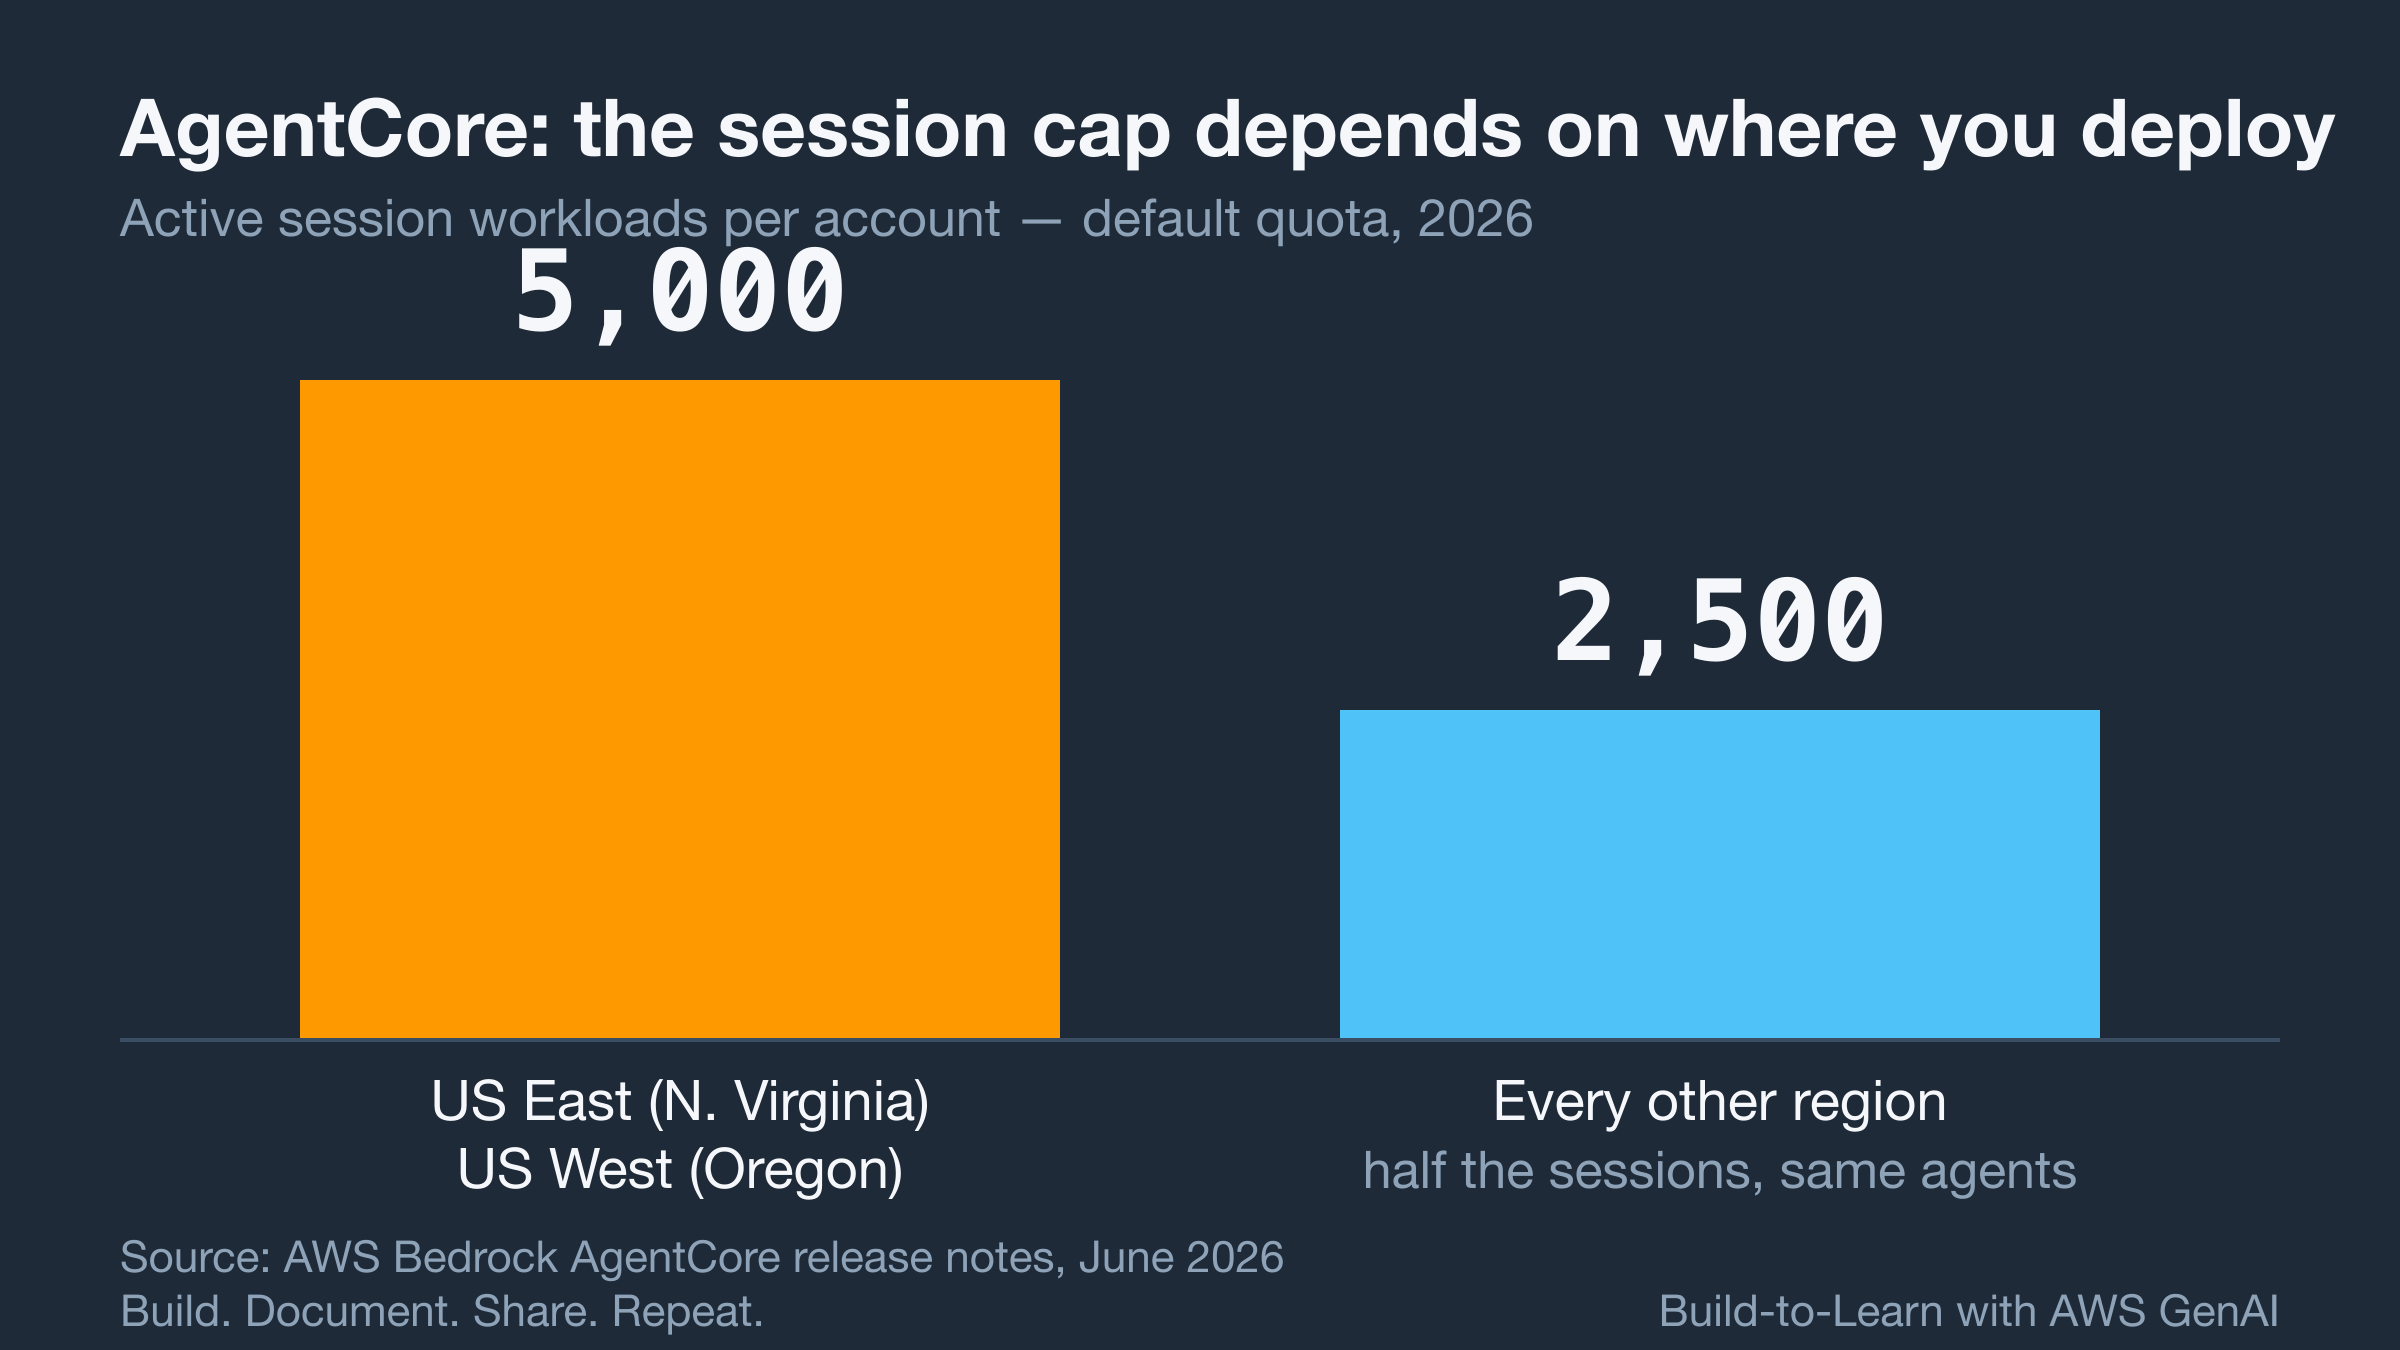
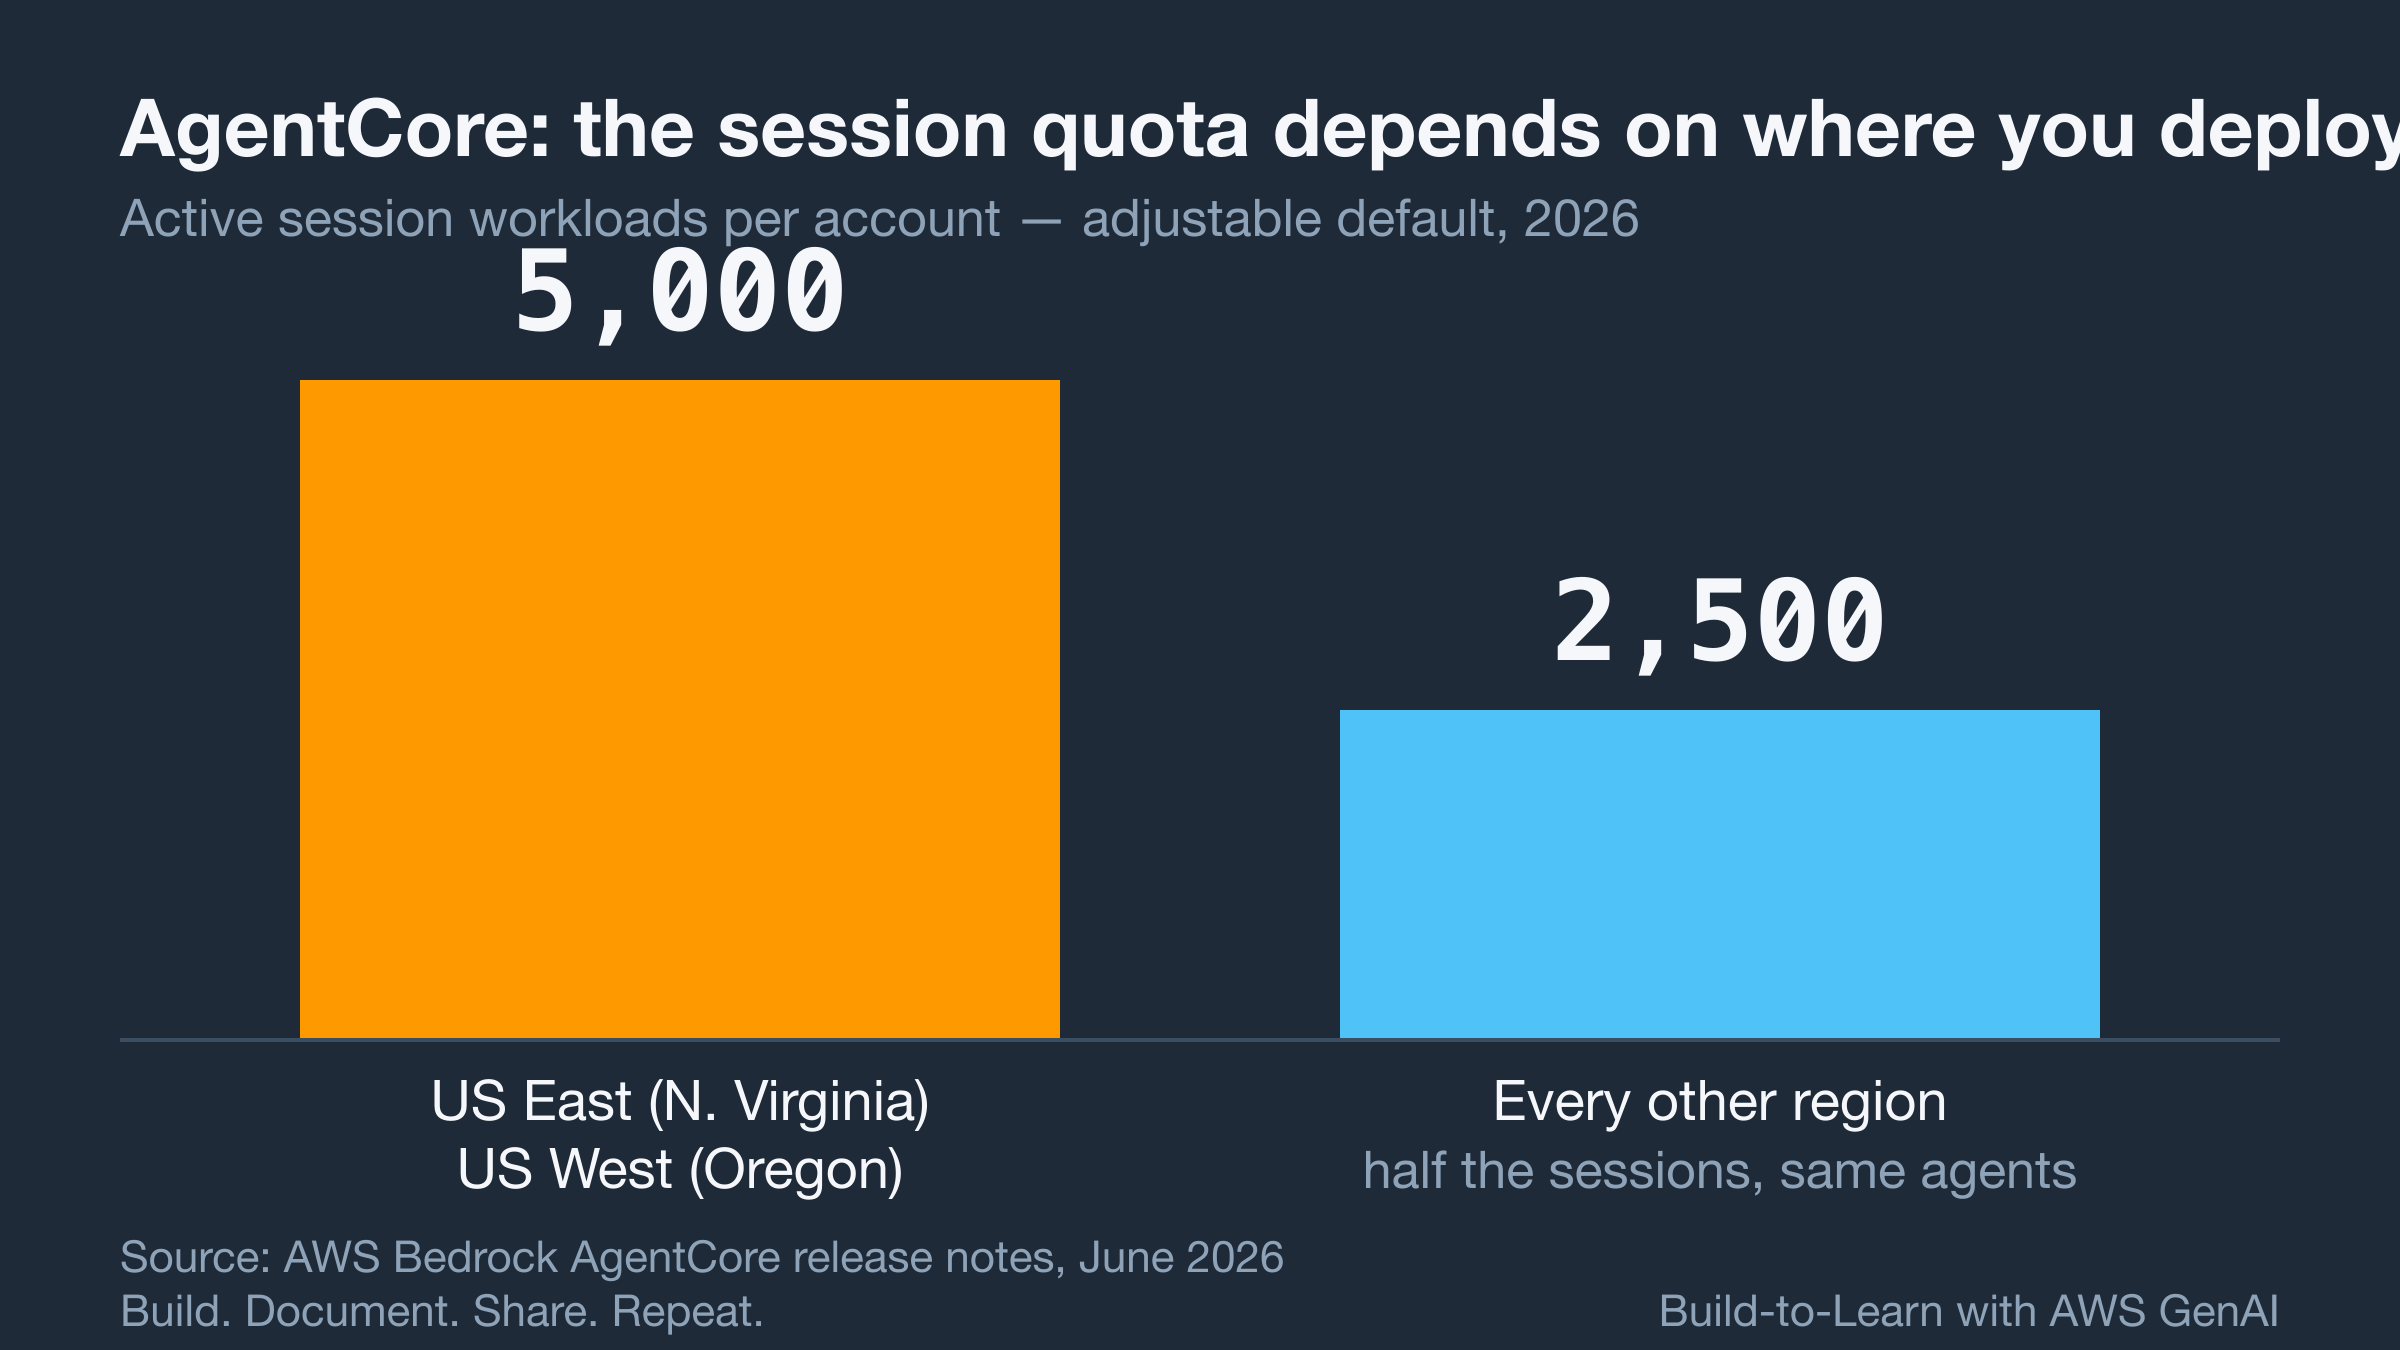
Precision: quotas are adjustable defaults, not hard caps
Verified against AWS quotas page and July 1 2026 What's New.

Changed region(s): [[0.4375, 0.0622, 1.0, 0.1867]]

diff --git a/articles/devto/from-demo-to-production-aws-agent-stack.md b/articles/devto/from-demo-to-production-aws-agent-stack.md
@@ -54,12 +54,12 @@ Evaluations is the piece I'd reach for first, because it answers the question my
 
 Now the part the keynote skips. Running an agent in production runs into limits, and the limits have numbers.
 
-Two quotas stand out. AgentCore raised per-agent throughput from 25 to 200 TPS, and caps active sessions at 5,000 per account. That 5,000 only applies in US East (N. Virginia) and US West (Oregon). Every other region gets 2,500 ([AgentCore release notes](https://docs.aws.amazon.com/bedrock-agentcore/latest/devguide/release-notes.html)).
+Two quotas stand out. AgentCore raised per-agent throughput from 25 to 200 TPS, and set the default for active session workloads at 5,000 per account. That 5,000 only applies in US East (N. Virginia) and US West (Oregon). Every other region gets 2,500 ([AgentCore release notes](https://docs.aws.amazon.com/bedrock-agentcore/latest/devguide/release-notes.html)). Both are adjustable through Service Quotas, which changes the failure mode: you won't hit a wall, you'll hit a support ticket you didn't know you needed to file.
 
 ![Bar chart: AgentCore active session quota is 5,000 per account in US East and US West, but 2,500 in every other region](https://raw.githubusercontent.com/rivadaviam/aws-articles/main/articles/assets/from-demo-to-production-aws-agent-stack/01-session-quota-by-region.png)
 *The session cap nobody mentions in the keynote: deploy outside the two big US regions and you start with half the ceiling.*
 
-Sit with those for a second. 200 transactions per second per agent is generous for most workloads. But if you're fanning out parallel tool calls, it's a ceiling you can hit. The active-sessions cap is the one that bites quietly. An agent that "works for hours or days" holds a session the whole time. If your design spins up long-lived agents per user, per job, or per document, 5,000 concurrent isn't a lot. And if you deploy outside the two big US regions, you're working with half that. That's an architecture constraint, not a footnote. It's exactly the kind of number you want to know at design time, not when sessions start getting rejected in production.
+Sit with those for a second. 200 transactions per second per agent is generous for most workloads. But if you're fanning out parallel tool calls, it's a ceiling you can hit. The active-sessions default is the one that bites quietly. An agent that "works for hours or days" holds a session the whole time. If your design spins up long-lived agents per user, per job, or per document, 5,000 concurrent isn't a lot. And if you deploy outside the two big US regions, you're working with half that. That's an architecture input, not a footnote. It's exactly the kind of number you want to know at design time — either you size under the default, or the quota-increase request goes in your launch checklist, not your incident retro.
 
 This is where my near-miss from an earlier lab keeps echoing. In lab-01, my first design used one S3 bucket with two prefixes: input and output in the same bucket. Clean. Simple. Catastrophic. Lambda would have triggered on its own output, looped, and billed me into the thousands before I noticed. The docs saved me. I read the trigger scope carefully and split the buckets before I deployed. The lesson wasn't "S3 is dangerous." It was that autonomous systems find the failure mode you didn't design against. An agent running unattended for a day is that same class of problem, scaled up. It won't loop on an S3 event — it'll loop on a reasoning step, or hold sessions it never releases, or retry a failing tool 400 times. Same shape, bigger blast radius.
 